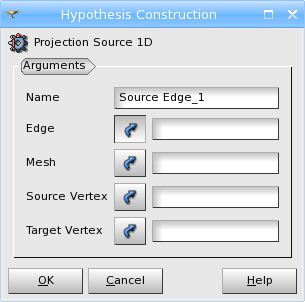
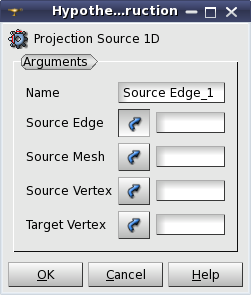
PAL22863 TC6.5.0: Projection_1D2D gives exception
rename Face -> Source Face, Mesh -> Source Mesh

diff --git a/src/StdMeshersGUI/StdMeshers_msg_en.ts b/src/StdMeshersGUI/StdMeshers_msg_en.ts
@@ -322,11 +322,11 @@
     </message>
     <message>
         <source>SMESH_SOURCE_3DSHAPE</source>
-        <translation>3D shape</translation>
+        <translation>Source 3D shape</translation>
     </message>
     <message>
         <source>SMESH_SOURCE_EDGE</source>
-        <translation>Edge</translation>
+        <translation>Source Edge</translation>
     </message>
     <message>
         <source>SMESH_SOURCE_EDGES</source>
@@ -334,7 +334,7 @@
     </message>
     <message>
         <source>SMESH_SOURCE_FACE</source>
-        <translation>Face</translation>
+        <translation>Source Face</translation>
     </message>
     <message>
         <source>SMESH_SOURCE_FACES</source>
@@ -342,7 +342,7 @@
     </message>
     <message>
         <source>SMESH_SOURCE_MESH</source>
-        <translation>Mesh</translation>
+        <translation>Source Mesh</translation>
     </message>
     <message>
         <source>SMESH_COPY_MESH</source>
